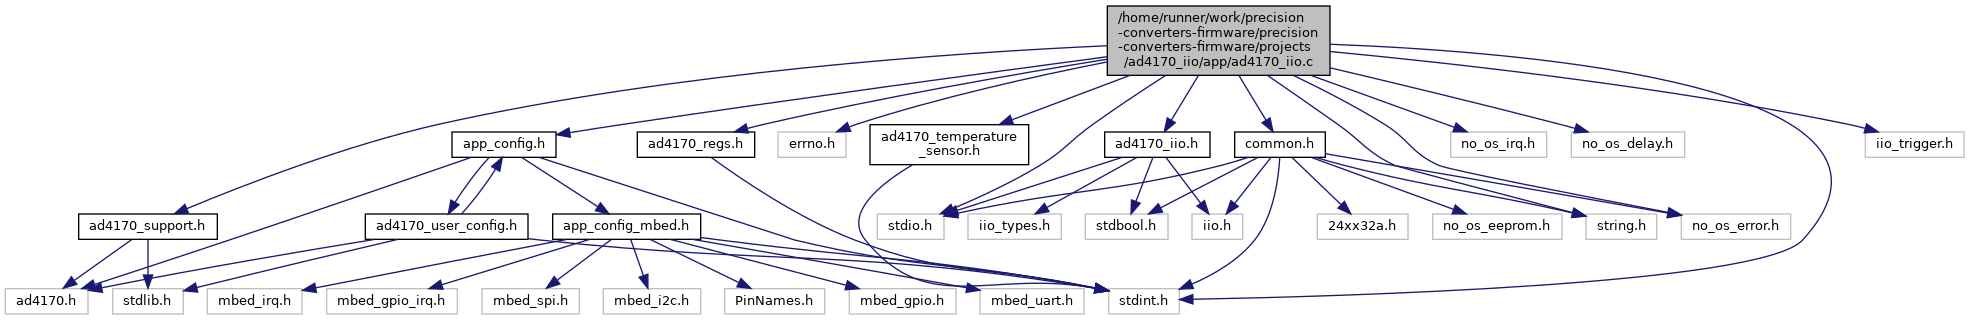
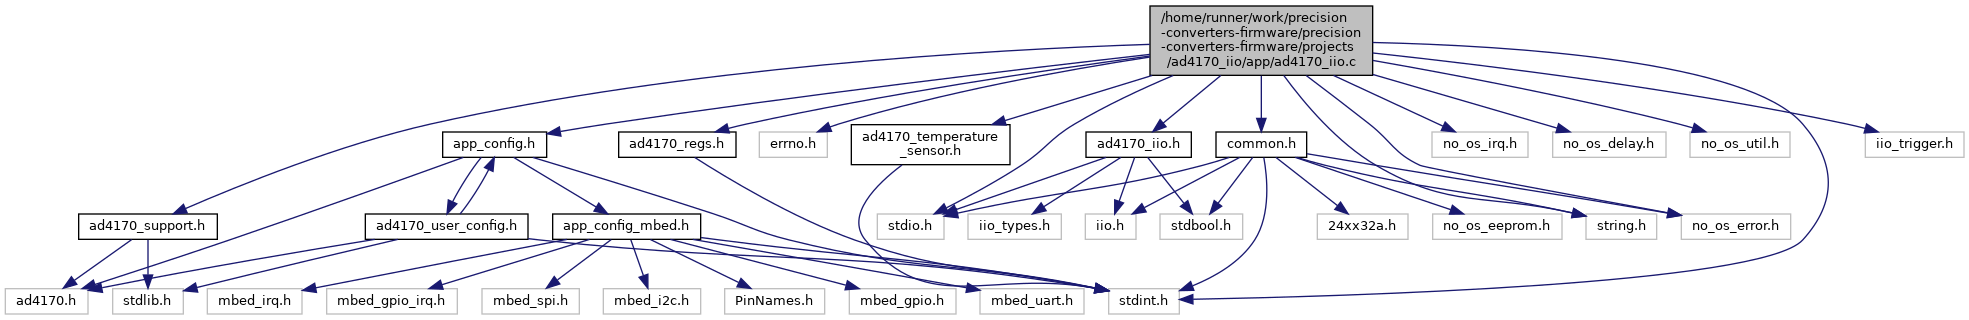
deploy: 1155e5c7779ac1a0429d76f46dec6fca5f518d14

diff --git a/doxygen/ad4170__iio_2app_2app__config__stm32_8h_source.html b/doxygen/ad4170__iio_2app_2app__config__stm32_8h_source.html
@@ -291,13 +291,13 @@ $(function() {
 <div class="ttc" id="aad4170__iio_2app_2app__config__stm32_8h_html_a232340bf1883f94fc832a7e3c96aebaf"><div class="ttname"><a href="ad4170__iio_2app_2app__config__stm32_8h.html#a232340bf1883f94fc832a7e3c96aebaf">ad4170_dma_buff_full</a></div><div class="ttdeci">volatile bool ad4170_dma_buff_full</div></div>
 <div class="ttc" id="aad4170__iio_2app_2app__config__stm32_8h_html_a247f0561bf59d7572c7894ad57822d3f"><div class="ttname"><a href="ad4170__iio_2app_2app__config__stm32_8h.html#a247f0561bf59d7572c7894ad57822d3f">stm32_i2c_extra_init_params</a></div><div class="ttdeci">struct stm32_i2c_init_param stm32_i2c_extra_init_params</div><div class="ttdef"><b>Definition:</b> app_config_stm32.c:99</div></div>
 <div class="ttc" id="aad4170__iio_2app_2app__config__stm32_8h_html_a4bb7d3cc701b729409935bd8ade51f33"><div class="ttname"><a href="ad4170__iio_2app_2app__config__stm32_8h.html#a4bb7d3cc701b729409935bd8ade51f33">ad4170_spi_dma_rx_half_cplt_callback</a></div><div class="ttdeci">void ad4170_spi_dma_rx_half_cplt_callback(DMA_HandleTypeDef *hdma)</div><div class="ttdoc">Callback function to flag the capture of Half the number of requested samples.</div><div class="ttdef"><b>Definition:</b> app_config_stm32.c:289</div></div>
-<div class="ttc" id="aad4170__iio_2app_2app__config__stm32_8h_html_a5624472a3cb6ae153d7d5774f3a5d2e3"><div class="ttname"><a href="ad4170__iio_2app_2app__config__stm32_8h.html#a5624472a3cb6ae153d7d5774f3a5d2e3">ad4170_iio_dev_data</a></div><div class="ttdeci">struct iio_device_data * ad4170_iio_dev_data</div><div class="ttdef"><b>Definition:</b> ad4170_iio.c:317</div></div>
+<div class="ttc" id="aad4170__iio_2app_2app__config__stm32_8h_html_a5624472a3cb6ae153d7d5774f3a5d2e3"><div class="ttname"><a href="ad4170__iio_2app_2app__config__stm32_8h.html#a5624472a3cb6ae153d7d5774f3a5d2e3">ad4170_iio_dev_data</a></div><div class="ttdeci">struct iio_device_data * ad4170_iio_dev_data</div><div class="ttdef"><b>Definition:</b> ad4170_iio.c:318</div></div>
 <div class="ttc" id="aad4170__iio_2app_2app__config__stm32_8h_html_a7297495c0ad6c29decfc52ced16dc7c9"><div class="ttname"><a href="ad4170__iio_2app_2app__config__stm32_8h.html#a7297495c0ad6c29decfc52ced16dc7c9">sdesc</a></div><div class="ttdeci">struct stm32_spi_desc * sdesc</div><div class="ttdef"><b>Definition:</b> app_config_stm32.c:147</div></div>
 <div class="ttc" id="aad4170__iio_2app_2app__config__stm32_8h_html_a88e5b2a0f6cb7067fcedf92d2a75239f"><div class="ttname"><a href="ad4170__iio_2app_2app__config__stm32_8h.html#a88e5b2a0f6cb7067fcedf92d2a75239f">tim8_init</a></div><div class="ttdeci">void tim8_init(struct no_os_pwm_desc *pwm_desc)</div><div class="ttdoc">Initialize Tx trigger advanced PWM parameters.</div><div class="ttdef"><b>Definition:</b> app_config_stm32.c:383</div></div>
-<div class="ttc" id="aad4170__iio_2app_2app__config__stm32_8h_html_a9c26c9f9b7e76a3bba788a29af42a730"><div class="ttname"><a href="ad4170__iio_2app_2app__config__stm32_8h.html#a9c26c9f9b7e76a3bba788a29af42a730">num_of_active_channels</a></div><div class="ttdeci">uint8_t num_of_active_channels</div><div class="ttdef"><b>Definition:</b> ad4170_iio.c:181</div></div>
+<div class="ttc" id="aad4170__iio_2app_2app__config__stm32_8h_html_a9c26c9f9b7e76a3bba788a29af42a730"><div class="ttname"><a href="ad4170__iio_2app_2app__config__stm32_8h.html#a9c26c9f9b7e76a3bba788a29af42a730">num_of_active_channels</a></div><div class="ttdeci">uint8_t num_of_active_channels</div><div class="ttdef"><b>Definition:</b> ad4170_iio.c:182</div></div>
 <div class="ttc" id="aad4170__iio_2app_2app__config__stm32_8h_html_a9e1430c26bad949f82f897196d6cd694"><div class="ttname"><a href="ad4170__iio_2app_2app__config__stm32_8h.html#a9e1430c26bad949f82f897196d6cd694">ad4170_spi_dma_rx_cplt_callback</a></div><div class="ttdeci">void ad4170_spi_dma_rx_cplt_callback(DMA_HandleTypeDef *hdma)</div><div class="ttdoc">Callback function to flag the capture of number of requested samples.</div><div class="ttdef"><b>Definition:</b> app_config_stm32.c:252</div></div>
-<div class="ttc" id="aad4170__iio_2app_2app__config__stm32_8h_html_aa53aa5662427813f24fde5da1379c097"><div class="ttname"><a href="ad4170__iio_2app_2app__config__stm32_8h.html#aa53aa5662427813f24fde5da1379c097">data_capture_operation</a></div><div class="ttdeci">bool data_capture_operation</div><div class="ttdef"><b>Definition:</b> ad4170_iio.c:335</div></div>
-<div class="ttc" id="aad4170__iio_2app_2app__config__stm32_8h_html_aa9d18233c09e4a589a3742fb58cd0a86"><div class="ttname"><a href="ad4170__iio_2app_2app__config__stm32_8h.html#aa9d18233c09e4a589a3742fb58cd0a86">tdm_read_started</a></div><div class="ttdeci">volatile bool tdm_read_started</div><div class="ttdef"><b>Definition:</b> ad4170_iio.c:328</div></div>
+<div class="ttc" id="aad4170__iio_2app_2app__config__stm32_8h_html_aa53aa5662427813f24fde5da1379c097"><div class="ttname"><a href="ad4170__iio_2app_2app__config__stm32_8h.html#aa53aa5662427813f24fde5da1379c097">data_capture_operation</a></div><div class="ttdeci">bool data_capture_operation</div><div class="ttdef"><b>Definition:</b> ad4170_iio.c:336</div></div>
+<div class="ttc" id="aad4170__iio_2app_2app__config__stm32_8h_html_aa9d18233c09e4a589a3742fb58cd0a86"><div class="ttname"><a href="ad4170__iio_2app_2app__config__stm32_8h.html#aa9d18233c09e4a589a3742fb58cd0a86">tdm_read_started</a></div><div class="ttdeci">volatile bool tdm_read_started</div><div class="ttdef"><b>Definition:</b> ad4170_iio.c:329</div></div>
 <div class="ttc" id="aad4170__iio_2app_2app__config__stm32_8h_html_ab7c63c1b0f65db92b6a4ea19edf957e1"><div class="ttname"><a href="ad4170__iio_2app_2app__config__stm32_8h.html#ab7c63c1b0f65db92b6a4ea19edf957e1">huart3</a></div><div class="ttdeci">UART_HandleTypeDef huart3</div></div>
 <div class="ttc" id="aad4170__iio_2app_2app__config__stm32_8h_html_ac036c45ccaf2d80b09da2b7bc9569975"><div class="ttname"><a href="ad4170__iio_2app_2app__config__stm32_8h.html#ac036c45ccaf2d80b09da2b7bc9569975">stm32_dig_aux1_gpio_extra_init_params</a></div><div class="ttdeci">struct stm32_gpio_init_param stm32_dig_aux1_gpio_extra_init_params</div><div class="ttdef"><b>Definition:</b> app_config_stm32.c:61</div></div>
 <div class="ttc" id="aad4170__iio_2app_2app__config__stm32_8h_html_ac662eceda82713d996bc90ff0cc60e80"><div class="ttname"><a href="ad4170__iio_2app_2app__config__stm32_8h.html#ac662eceda82713d996bc90ff0cc60e80">buff_start_addr</a></div><div class="ttdeci">volatile uint32_t * buff_start_addr</div><div class="ttdef"><b>Definition:</b> ad405x_iio.c:174</div></div>

diff --git a/doxygen/ad4170__iio_8c.html b/doxygen/ad4170__iio_8c.html
@@ -90,6 +90,7 @@ $(function() {
 <code>#include &quot;no_os_error.h&quot;</code><br />
 <code>#include &quot;no_os_irq.h&quot;</code><br />
 <code>#include &quot;no_os_delay.h&quot;</code><br />
+<code>#include &quot;no_os_util.h&quot;</code><br />
 <code>#include &quot;<a class="el" href="common_8h_source.html">common.h</a>&quot;</code><br />
 <code>#include &quot;iio_trigger.h&quot;</code><br />
 </div><div class="textblock"><div class="dynheader">
@@ -97,23 +98,24 @@ Include dependency graph for ad4170_iio.c:</div>
 <div class="dyncontent">
 <div class="center"><img src="ad4170__iio_8c__incl.png" border="0" usemap="#a_2home_2runner_2work_2precision-converters-firmware_2precision-converters-firmware_2projects_2ad4170__iio_2app_2ad4170__iio_8c" alt=""/></div>
 <map name="a_2home_2runner_2work_2precision-converters-firmware_2precision-converters-firmware_2projects_2ad4170__iio_2app_2ad4170__iio_8c" id="a_2home_2runner_2work_2precision-converters-firmware_2precision-converters-firmware_2projects_2ad4170__iio_2app_2ad4170__iio_8c">
-<area shape="rect" title="Implementation of AD4170 IIO application interfaces." alt="" coords="1107,5,1330,76"/>
+<area shape="rect" title="Implementation of AD4170 IIO application interfaces." alt="" coords="1150,5,1373,76"/>
 <area shape="rect" title=" " alt="" coords="1109,288,1179,315"/>
 <area shape="rect" title=" " alt="" coords="1586,213,1657,240"/>
 <area shape="rect" title=" " alt="" coords="877,213,944,240"/>
-<area shape="rect" title=" " alt="" coords="778,131,846,158"/>
-<area shape="rect" href="ad4170__iio_8h.html" title="Header file of ad4170_iio." alt="" coords="1105,131,1210,158"/>
-<area shape="rect" href="ad4170__iio_2app_2app__config_8h.html" title="Configuration file for AD4170 device application." alt="" coords="452,131,556,158"/>
-<area shape="rect" href="ad4170__regs_8h.html" title="Global declarations for ad4170_regs module." alt="" coords="637,131,755,158"/>
+<area shape="rect" title=" " alt="" coords="759,131,827,158"/>
+<area shape="rect" href="ad4170__iio_8h.html" title="Header file of ad4170_iio." alt="" coords="1086,131,1191,158"/>
+<area shape="rect" href="ad4170__iio_2app_2app__config_8h.html" title="Configuration file for AD4170 device application." alt="" coords="443,131,547,158"/>
+<area shape="rect" href="ad4170__regs_8h.html" title="Global declarations for ad4170_regs module." alt="" coords="619,131,736,158"/>
 <area shape="rect" href="ad4170__support_8h.html" title=" " alt="" coords="79,213,217,240"/>
-<area shape="rect" href="ad4170__temperature__sensor_8h.html" title=" " alt="" coords="870,124,1029,165"/>
+<area shape="rect" href="ad4170__temperature__sensor_8h.html" title=" " alt="" coords="851,124,1010,165"/>
 <area shape="rect" title=" " alt="" coords="1681,213,1791,240"/>
-<area shape="rect" title=" " alt="" coords="1451,131,1547,158"/>
-<area shape="rect" title=" " alt="" coords="1571,131,1685,158"/>
-<area shape="rect" href="common_8h.html" title=" " alt="" coords="1235,131,1325,158"/>
+<area shape="rect" title=" " alt="" coords="1432,131,1528,158"/>
+<area shape="rect" title=" " alt="" coords="1553,131,1666,158"/>
+<area shape="rect" title=" " alt="" coords="1690,131,1790,158"/>
+<area shape="rect" href="common_8h.html" title=" " alt="" coords="1216,131,1307,158"/>
 <area shape="rect" title=" " alt="" coords="1865,131,1964,158"/>
-<area shape="rect" title=" " alt="" coords="1085,213,1168,240"/>
-<area shape="rect" title=" " alt="" coords="1192,213,1243,240"/>
+<area shape="rect" title=" " alt="" coords="1160,213,1243,240"/>
+<area shape="rect" title=" " alt="" coords="1085,213,1136,240"/>
 <area shape="rect" title=" " alt="" coords="968,213,1061,240"/>
 <area shape="rect" title=" " alt="" coords="5,288,88,315"/>
 <area shape="rect" href="ad4170__iio_2app_2app__config__mbed_8h.html" title="Header file for Mbed platform configurations." alt="" coords="553,213,701,240"/>
@@ -329,7 +331,7 @@ Variables</h2></td></tr>
 <div class="line">    .attributes = <a class="code" href="ad4170__iio_8c.html#afe922f396cd6132d66abb5ec5d009deb">channel_input_attributes</a>\</div>
 <div class="line">}</div>
 <div class="ttc" id="aad2s1210__iio_8c_html_add66a0274e7149971cfe86329fa94473"><div class="ttname"><a href="ad2s1210__iio_8c.html#add66a0274e7149971cfe86329fa94473">chn_scan</a></div><div class="ttdeci">struct scan_type chn_scan[RESOLVER_CHANNELS]</div><div class="ttdef"><b>Definition:</b> ad2s1210_iio.c:110</div></div>
-<div class="ttc" id="aad4170__iio_8c_html_afe922f396cd6132d66abb5ec5d009deb"><div class="ttname"><a href="ad4170__iio_8c.html#afe922f396cd6132d66abb5ec5d009deb">channel_input_attributes</a></div><div class="ttdeci">struct iio_attribute channel_input_attributes[]</div><div class="ttdef"><b>Definition:</b> ad4170_iio.c:2484</div></div>
+<div class="ttc" id="aad4170__iio_8c_html_afe922f396cd6132d66abb5ec5d009deb"><div class="ttname"><a href="ad4170__iio_8c.html#afe922f396cd6132d66abb5ec5d009deb">channel_input_attributes</a></div><div class="ttdeci">struct iio_attribute channel_input_attributes[]</div><div class="ttdef"><b>Definition:</b> ad4170_iio.c:2488</div></div>
 </div><!-- fragment -->
 </div>
 </div>

diff --git a/doxygen/ad4170__iio_8h_source.html b/doxygen/ad4170__iio_8h_source.html
@@ -116,9 +116,9 @@ $(function() {
 <div class="ttc" id="aad4170__iio_8h_html_a18bacb4cb355b7d716963dbe92413e8aa744f4116ccf6a487bbed01415d664d5a"><div class="ttname"><a href="ad4170__iio_8h.html#a18bacb4cb355b7d716963dbe92413e8aa744f4116ccf6a487bbed01415d664d5a">NUM_OF_SENSOR_CHANNELS</a></div><div class="ttdeci">@ NUM_OF_SENSOR_CHANNELS</div><div class="ttdef"><b>Definition:</b> ad4170_iio.h:35</div></div>
 <div class="ttc" id="aad4170__iio_8h_html_a18bacb4cb355b7d716963dbe92413e8aae735347ed86cccb46efa6f2f5292b37b"><div class="ttname"><a href="ad4170__iio_8h.html#a18bacb4cb355b7d716963dbe92413e8aae735347ed86cccb46efa6f2f5292b37b">SENSOR_CHANNEL3</a></div><div class="ttdeci">@ SENSOR_CHANNEL3</div><div class="ttdef"><b>Definition:</b> ad4170_iio.h:34</div></div>
 <div class="ttc" id="aad4170__iio_8h_html_a18bacb4cb355b7d716963dbe92413e8aaf06c0cb699802a600671241cf343e489"><div class="ttname"><a href="ad4170__iio_8h.html#a18bacb4cb355b7d716963dbe92413e8aaf06c0cb699802a600671241cf343e489">SENSOR_CHANNEL0</a></div><div class="ttdeci">@ SENSOR_CHANNEL0</div><div class="ttdef"><b>Definition:</b> ad4170_iio.h:31</div></div>
-<div class="ttc" id="aad4170__iio_8h_html_a90df09e109b2513ba81975c0fabfdb60"><div class="ttname"><a href="ad4170__iio_8h.html#a90df09e109b2513ba81975c0fabfdb60">ad4170_iio_event_handler</a></div><div class="ttdeci">void ad4170_iio_event_handler(void)</div><div class="ttdoc">Run the AD4170 IIO event handler.</div><div class="ttdef"><b>Definition:</b> ad4170_iio.c:2958</div></div>
-<div class="ttc" id="aad4170__iio_8h_html_ab45b6d0561a9224c31adc942d76dab33"><div class="ttname"><a href="ad4170__iio_8h.html#ab45b6d0561a9224c31adc942d76dab33">p_ad4170_dev_inst</a></div><div class="ttdeci">struct ad4170_dev * p_ad4170_dev_inst</div><div class="ttdef"><b>Definition:</b> ad4170_iio.c:128</div></div>
-<div class="ttc" id="aad4170__iio_8h_html_afe5b4999ffeb4ff59922c46515a4a8b1"><div class="ttname"><a href="ad4170__iio_8h.html#afe5b4999ffeb4ff59922c46515a4a8b1">ad4170_iio_initialize</a></div><div class="ttdeci">int32_t ad4170_iio_initialize(void)</div><div class="ttdoc">Initialize the IIO interface for AD4170 IIO device.</div><div class="ttdef"><b>Definition:</b> ad4170_iio.c:2877</div></div>
+<div class="ttc" id="aad4170__iio_8h_html_a90df09e109b2513ba81975c0fabfdb60"><div class="ttname"><a href="ad4170__iio_8h.html#a90df09e109b2513ba81975c0fabfdb60">ad4170_iio_event_handler</a></div><div class="ttdeci">void ad4170_iio_event_handler(void)</div><div class="ttdoc">Run the AD4170 IIO event handler.</div><div class="ttdef"><b>Definition:</b> ad4170_iio.c:2962</div></div>
+<div class="ttc" id="aad4170__iio_8h_html_ab45b6d0561a9224c31adc942d76dab33"><div class="ttname"><a href="ad4170__iio_8h.html#ab45b6d0561a9224c31adc942d76dab33">p_ad4170_dev_inst</a></div><div class="ttdeci">struct ad4170_dev * p_ad4170_dev_inst</div><div class="ttdef"><b>Definition:</b> ad4170_iio.c:129</div></div>
+<div class="ttc" id="aad4170__iio_8h_html_afe5b4999ffeb4ff59922c46515a4a8b1"><div class="ttname"><a href="ad4170__iio_8h.html#afe5b4999ffeb4ff59922c46515a4a8b1">ad4170_iio_initialize</a></div><div class="ttdeci">int32_t ad4170_iio_initialize(void)</div><div class="ttdoc">Initialize the IIO interface for AD4170 IIO device.</div><div class="ttdef"><b>Definition:</b> ad4170_iio.c:2881</div></div>
 </div><!-- fragment --></div><!-- contents -->
 <!-- start footer part -->
 <hr class="footer"/><address class="footer"><small>

diff --git a/doxygen/ad7124__iio_2app_2app__config_8h_source.html b/doxygen/ad7124__iio_2app_2app__config_8h_source.html
@@ -275,7 +275,7 @@ $(function() {
 <div class="ttc" id="aad2s1210__iio_2app_2app__config_8h_html_aba990e48bb1b87852ff6a375f0c2f655"><div class="ttname"><a href="ad2s1210__iio_2app_2app__config_8h.html#aba990e48bb1b87852ff6a375f0c2f655">init_system</a></div><div class="ttdeci">int32_t init_system(void)</div><div class="ttdoc">Initialize the system peripherals.</div><div class="ttdef"><b>Definition:</b> app_config.c:185</div></div>
 <div class="ttc" id="aad2s1210__iio_2app_2app__config_8h_html_ad5132545e75d00d2901088ff1886e41e"><div class="ttname"><a href="ad2s1210__iio_2app_2app__config_8h.html#ad5132545e75d00d2901088ff1886e41e">uart_desc</a></div><div class="ttdeci">struct no_os_uart_desc * uart_desc</div><div class="ttdef"><b>Definition:</b> app_config.c:97</div></div>
 <div class="ttc" id="aad405x__iio_2app_2app__config_8h_html_a3e28ad761469de0b6f49f66710c878a0"><div class="ttname"><a href="ad405x__iio_2app_2app__config_8h.html#a3e28ad761469de0b6f49f66710c878a0">eeprom_desc</a></div><div class="ttdeci">struct no_os_eeprom_desc * eeprom_desc</div><div class="ttdef"><b>Definition:</b> app_config.c:194</div></div>
-<div class="ttc" id="aad4170__iio_2app_2app__config_8h_html_a57c37c6b7af2f7586e6a924484a36155"><div class="ttname"><a href="ad4170__iio_2app_2app__config_8h.html#a57c37c6b7af2f7586e6a924484a36155">ticker_callback</a></div><div class="ttdeci">void ticker_callback(void *ctx)</div><div class="ttdoc">This is an ISR (Interrupt Service Routine) for Ticker object.</div><div class="ttdef"><b>Definition:</b> ad4170_iio.c:2846</div></div>
+<div class="ttc" id="aad4170__iio_2app_2app__config_8h_html_a57c37c6b7af2f7586e6a924484a36155"><div class="ttname"><a href="ad4170__iio_2app_2app__config_8h.html#a57c37c6b7af2f7586e6a924484a36155">ticker_callback</a></div><div class="ttdeci">void ticker_callback(void *ctx)</div><div class="ttdoc">This is an ISR (Interrupt Service Routine) for Ticker object.</div><div class="ttdef"><b>Definition:</b> ad4170_iio.c:2850</div></div>
 <div class="ttc" id="aad7124__iio_2app_2app__config_8h_html_a2a6885e1a151bf3a9afc6066a709c05e"><div class="ttname"><a href="ad7124__iio_2app_2app__config_8h.html#a2a6885e1a151bf3a9afc6066a709c05e">csb_gpio</a></div><div class="ttdeci">struct no_os_gpio_desc * csb_gpio</div><div class="ttdef"><b>Definition:</b> app_config.c:51</div></div>
 <div class="ttc" id="aad7124__iio_2app_2app__config_8h_html_a416757598b978b4c9419ba8663eb72b0"><div class="ttname"><a href="ad7124__iio_2app_2app__config_8h.html#a416757598b978b4c9419ba8663eb72b0">lvgl_tick_callback</a></div><div class="ttdeci">void lvgl_tick_callback(void *ctx)</div></div>
 <div class="ttc" id="aad7124__iio_2app_2app__config_8h_html_a616505fab0dd47929500794865d1aed9"><div class="ttname"><a href="ad7124__iio_2app_2app__config_8h.html#a616505fab0dd47929500794865d1aed9">data_capture_callback</a></div><div class="ttdeci">void data_capture_callback(void *ctx)</div><div class="ttdoc">Interrupt Service Routine to monitor data ready event.</div><div class="ttdef"><b>Definition:</b> ad405x_iio.c:1286</div></div>

diff --git a/doxygen/ad777x__iio_2app_2app__config__stm32_8h_source.html b/doxygen/ad777x__iio_2app_2app__config__stm32_8h_source.html
@@ -232,7 +232,7 @@ $(function() {
 <div class="ttc" id="aad405x__iio_2app_2app__config__stm32_8h_html_aee225d9d1b4e30e96142c0acdba48d3f"><div class="ttname"><a href="ad405x__iio_2app_2app__config__stm32_8h.html#aee225d9d1b4e30e96142c0acdba48d3f">stm32_spi_extra_init_params</a></div><div class="ttdeci">struct stm32_spi_init_param stm32_spi_extra_init_params</div><div class="ttdef"><b>Definition:</b> app_config_stm32.c:54</div></div>
 <div class="ttc" id="aad4170__iio_2app_2app__config__stm32_8h_html_a12ed66c0def33cf091c0f63c780b0cfa"><div class="ttname"><a href="ad4170__iio_2app_2app__config__stm32_8h.html#a12ed66c0def33cf091c0f63c780b0cfa">stm32_tdm_extra_init_params</a></div><div class="ttdeci">struct stm32_tdm_init_param stm32_tdm_extra_init_params</div><div class="ttdef"><b>Definition:</b> app_config_stm32.c:52</div></div>
 <div class="ttc" id="aad4170__iio_2app_2app__config__stm32_8h_html_a247f0561bf59d7572c7894ad57822d3f"><div class="ttname"><a href="ad4170__iio_2app_2app__config__stm32_8h.html#a247f0561bf59d7572c7894ad57822d3f">stm32_i2c_extra_init_params</a></div><div class="ttdeci">struct stm32_i2c_init_param stm32_i2c_extra_init_params</div><div class="ttdef"><b>Definition:</b> app_config_stm32.c:99</div></div>
-<div class="ttc" id="aad4170__iio_2app_2app__config__stm32_8h_html_aa53aa5662427813f24fde5da1379c097"><div class="ttname"><a href="ad4170__iio_2app_2app__config__stm32_8h.html#aa53aa5662427813f24fde5da1379c097">data_capture_operation</a></div><div class="ttdeci">bool data_capture_operation</div><div class="ttdef"><b>Definition:</b> ad4170_iio.c:335</div></div>
+<div class="ttc" id="aad4170__iio_2app_2app__config__stm32_8h_html_aa53aa5662427813f24fde5da1379c097"><div class="ttname"><a href="ad4170__iio_2app_2app__config__stm32_8h.html#aa53aa5662427813f24fde5da1379c097">data_capture_operation</a></div><div class="ttdeci">bool data_capture_operation</div><div class="ttdef"><b>Definition:</b> ad4170_iio.c:336</div></div>
 <div class="ttc" id="aad4170__iio_2app_2app__config__stm32_8h_html_ab7c63c1b0f65db92b6a4ea19edf957e1"><div class="ttname"><a href="ad4170__iio_2app_2app__config__stm32_8h.html#ab7c63c1b0f65db92b6a4ea19edf957e1">huart3</a></div><div class="ttdeci">UART_HandleTypeDef huart3</div></div>
 <div class="ttc" id="aad469x__iio_2app_2app__config__stm32_8h_html_acfa6025db355a0ec64237825c141b277"><div class="ttname"><a href="ad469x__iio_2app_2app__config__stm32_8h.html#acfa6025db355a0ec64237825c141b277">stm32_gpio_reset_extra_init_params</a></div><div class="ttdeci">struct stm32_gpio_init_param stm32_gpio_reset_extra_init_params</div><div class="ttdef"><b>Definition:</b> app_config_stm32.c:81</div></div>
 <div class="ttc" id="aad7134__iio_2app_2app__config__stm32_8h_html_a0a514951e71050c36fa56dbfb00421e7"><div class="ttname"><a href="ad7134__iio_2app_2app__config__stm32_8h.html#a0a514951e71050c36fa56dbfb00421e7">MX_ICACHE_Init</a></div><div class="ttdeci">void MX_ICACHE_Init(void)</div></div>

diff --git a/doxygen/ad4170__iio_2app_2app__config_8h_source.html b/doxygen/ad4170__iio_2app_2app__config_8h_source.html
@@ -379,7 +379,7 @@ $(function() {
 <div class="ttc" id="aad4170__accelerometer__config_8h_html"><div class="ttname"><a href="ad4170__accelerometer__config_8h.html">ad4170_accelerometer_config.h</a></div><div class="ttdoc">Header for AD4170 Accelerometer configurations module.</div></div>
 <div class="ttc" id="aad4170__iio_2app_2app__config_8h_html_a325760f96dd831775fe7c8ffd2f951af"><div class="ttname"><a href="ad4170__iio_2app_2app__config_8h.html#a325760f96dd831775fe7c8ffd2f951af">gpio_init_rdy</a></div><div class="ttdeci">struct no_os_gpio_init_param gpio_init_rdy</div><div class="ttdef"><b>Definition:</b> app_config.c:63</div></div>
 <div class="ttc" id="aad4170__iio_2app_2app__config_8h_html_a4809a80bd78ee1316fb8b4609e460e8a"><div class="ttname"><a href="ad4170__iio_2app_2app__config_8h.html#a4809a80bd78ee1316fb8b4609e460e8a">led_gpio_desc</a></div><div class="ttdeci">struct no_os_gpio_desc * led_gpio_desc</div><div class="ttdef"><b>Definition:</b> app_config.c:208</div></div>
-<div class="ttc" id="aad4170__iio_2app_2app__config_8h_html_a57c37c6b7af2f7586e6a924484a36155"><div class="ttname"><a href="ad4170__iio_2app_2app__config_8h.html#a57c37c6b7af2f7586e6a924484a36155">ticker_callback</a></div><div class="ttdeci">void ticker_callback(void *ctx)</div><div class="ttdoc">This is an ISR (Interrupt Service Routine) for Ticker object.</div><div class="ttdef"><b>Definition:</b> ad4170_iio.c:2846</div></div>
+<div class="ttc" id="aad4170__iio_2app_2app__config_8h_html_a57c37c6b7af2f7586e6a924484a36155"><div class="ttname"><a href="ad4170__iio_2app_2app__config_8h.html#a57c37c6b7af2f7586e6a924484a36155">ticker_callback</a></div><div class="ttdeci">void ticker_callback(void *ctx)</div><div class="ttdoc">This is an ISR (Interrupt Service Routine) for Ticker object.</div><div class="ttdef"><b>Definition:</b> ad4170_iio.c:2850</div></div>
 <div class="ttc" id="aad4170__iio_2app_2app__config_8h_html_a5a275316e0bde85cd49b2e8a3a30e2cd"><div class="ttname"><a href="ad4170__iio_2app_2app__config_8h.html#a5a275316e0bde85cd49b2e8a3a30e2cd">ad4170_tdm_desc</a></div><div class="ttdeci">struct no_os_tdm_desc * ad4170_tdm_desc</div></div>
 <div class="ttc" id="aad4170__iio_2app_2app__config_8h_html_aa4e0e21e262905fedb9b1d3d636f529a"><div class="ttname"><a href="ad4170__iio_2app_2app__config_8h.html#aa4e0e21e262905fedb9b1d3d636f529a">csb_gpio_desc</a></div><div class="ttdeci">struct no_os_gpio_desc * csb_gpio_desc</div><div class="ttdef"><b>Definition:</b> app_config.c:226</div></div>
 <div class="ttc" id="aad4170__iio_2app_2app__config_8h_html_aa6edd21b8d3b11bfc84d2678abc7d922"><div class="ttname"><a href="ad4170__iio_2app_2app__config_8h.html#aa6edd21b8d3b11bfc84d2678abc7d922">gpio_init_ldac_n</a></div><div class="ttdeci">struct no_os_gpio_init_param gpio_init_ldac_n</div><div class="ttdef"><b>Definition:</b> app_config.c:55</div></div>

diff --git a/doxygen/ad7134__iio_2app_2app__config__stm32_8h_source.html b/doxygen/ad7134__iio_2app_2app__config__stm32_8h_source.html
@@ -181,7 +181,7 @@ $(function() {
 <div class="ttc" id="aad405x__iio_2app_2app__config__stm32_8h_html_aee225d9d1b4e30e96142c0acdba48d3f"><div class="ttname"><a href="ad405x__iio_2app_2app__config__stm32_8h.html#aee225d9d1b4e30e96142c0acdba48d3f">stm32_spi_extra_init_params</a></div><div class="ttdeci">struct stm32_spi_init_param stm32_spi_extra_init_params</div><div class="ttdef"><b>Definition:</b> app_config_stm32.c:54</div></div>
 <div class="ttc" id="aad4170__iio_2app_2app__config__stm32_8h_html_a12ed66c0def33cf091c0f63c780b0cfa"><div class="ttname"><a href="ad4170__iio_2app_2app__config__stm32_8h.html#a12ed66c0def33cf091c0f63c780b0cfa">stm32_tdm_extra_init_params</a></div><div class="ttdeci">struct stm32_tdm_init_param stm32_tdm_extra_init_params</div><div class="ttdef"><b>Definition:</b> app_config_stm32.c:52</div></div>
 <div class="ttc" id="aad4170__iio_2app_2app__config__stm32_8h_html_a247f0561bf59d7572c7894ad57822d3f"><div class="ttname"><a href="ad4170__iio_2app_2app__config__stm32_8h.html#a247f0561bf59d7572c7894ad57822d3f">stm32_i2c_extra_init_params</a></div><div class="ttdeci">struct stm32_i2c_init_param stm32_i2c_extra_init_params</div><div class="ttdef"><b>Definition:</b> app_config_stm32.c:99</div></div>
-<div class="ttc" id="aad4170__iio_2app_2app__config__stm32_8h_html_aa53aa5662427813f24fde5da1379c097"><div class="ttname"><a href="ad4170__iio_2app_2app__config__stm32_8h.html#aa53aa5662427813f24fde5da1379c097">data_capture_operation</a></div><div class="ttdeci">bool data_capture_operation</div><div class="ttdef"><b>Definition:</b> ad4170_iio.c:335</div></div>
+<div class="ttc" id="aad4170__iio_2app_2app__config__stm32_8h_html_aa53aa5662427813f24fde5da1379c097"><div class="ttname"><a href="ad4170__iio_2app_2app__config__stm32_8h.html#aa53aa5662427813f24fde5da1379c097">data_capture_operation</a></div><div class="ttdeci">bool data_capture_operation</div><div class="ttdef"><b>Definition:</b> ad4170_iio.c:336</div></div>
 <div class="ttc" id="aad4170__iio_2app_2app__config__stm32_8h_html_ab7c63c1b0f65db92b6a4ea19edf957e1"><div class="ttname"><a href="ad4170__iio_2app_2app__config__stm32_8h.html#ab7c63c1b0f65db92b6a4ea19edf957e1">huart3</a></div><div class="ttdeci">UART_HandleTypeDef huart3</div></div>
 <div class="ttc" id="aad7134__iio_2app_2app__config__stm32_8h_html_a0a514951e71050c36fa56dbfb00421e7"><div class="ttname"><a href="ad7134__iio_2app_2app__config__stm32_8h.html#a0a514951e71050c36fa56dbfb00421e7">MX_ICACHE_Init</a></div><div class="ttdeci">void MX_ICACHE_Init(void)</div></div>
 <div class="ttc" id="aad7134__iio_2app_2app__config__stm32_8h_html_a2d6e29406e35a65323b382515e095cd4"><div class="ttname"><a href="ad7134__iio_2app_2app__config__stm32_8h.html#a2d6e29406e35a65323b382515e095cd4">MX_LPUART1_UART_Init</a></div><div class="ttdeci">void MX_LPUART1_UART_Init(void)</div></div>
